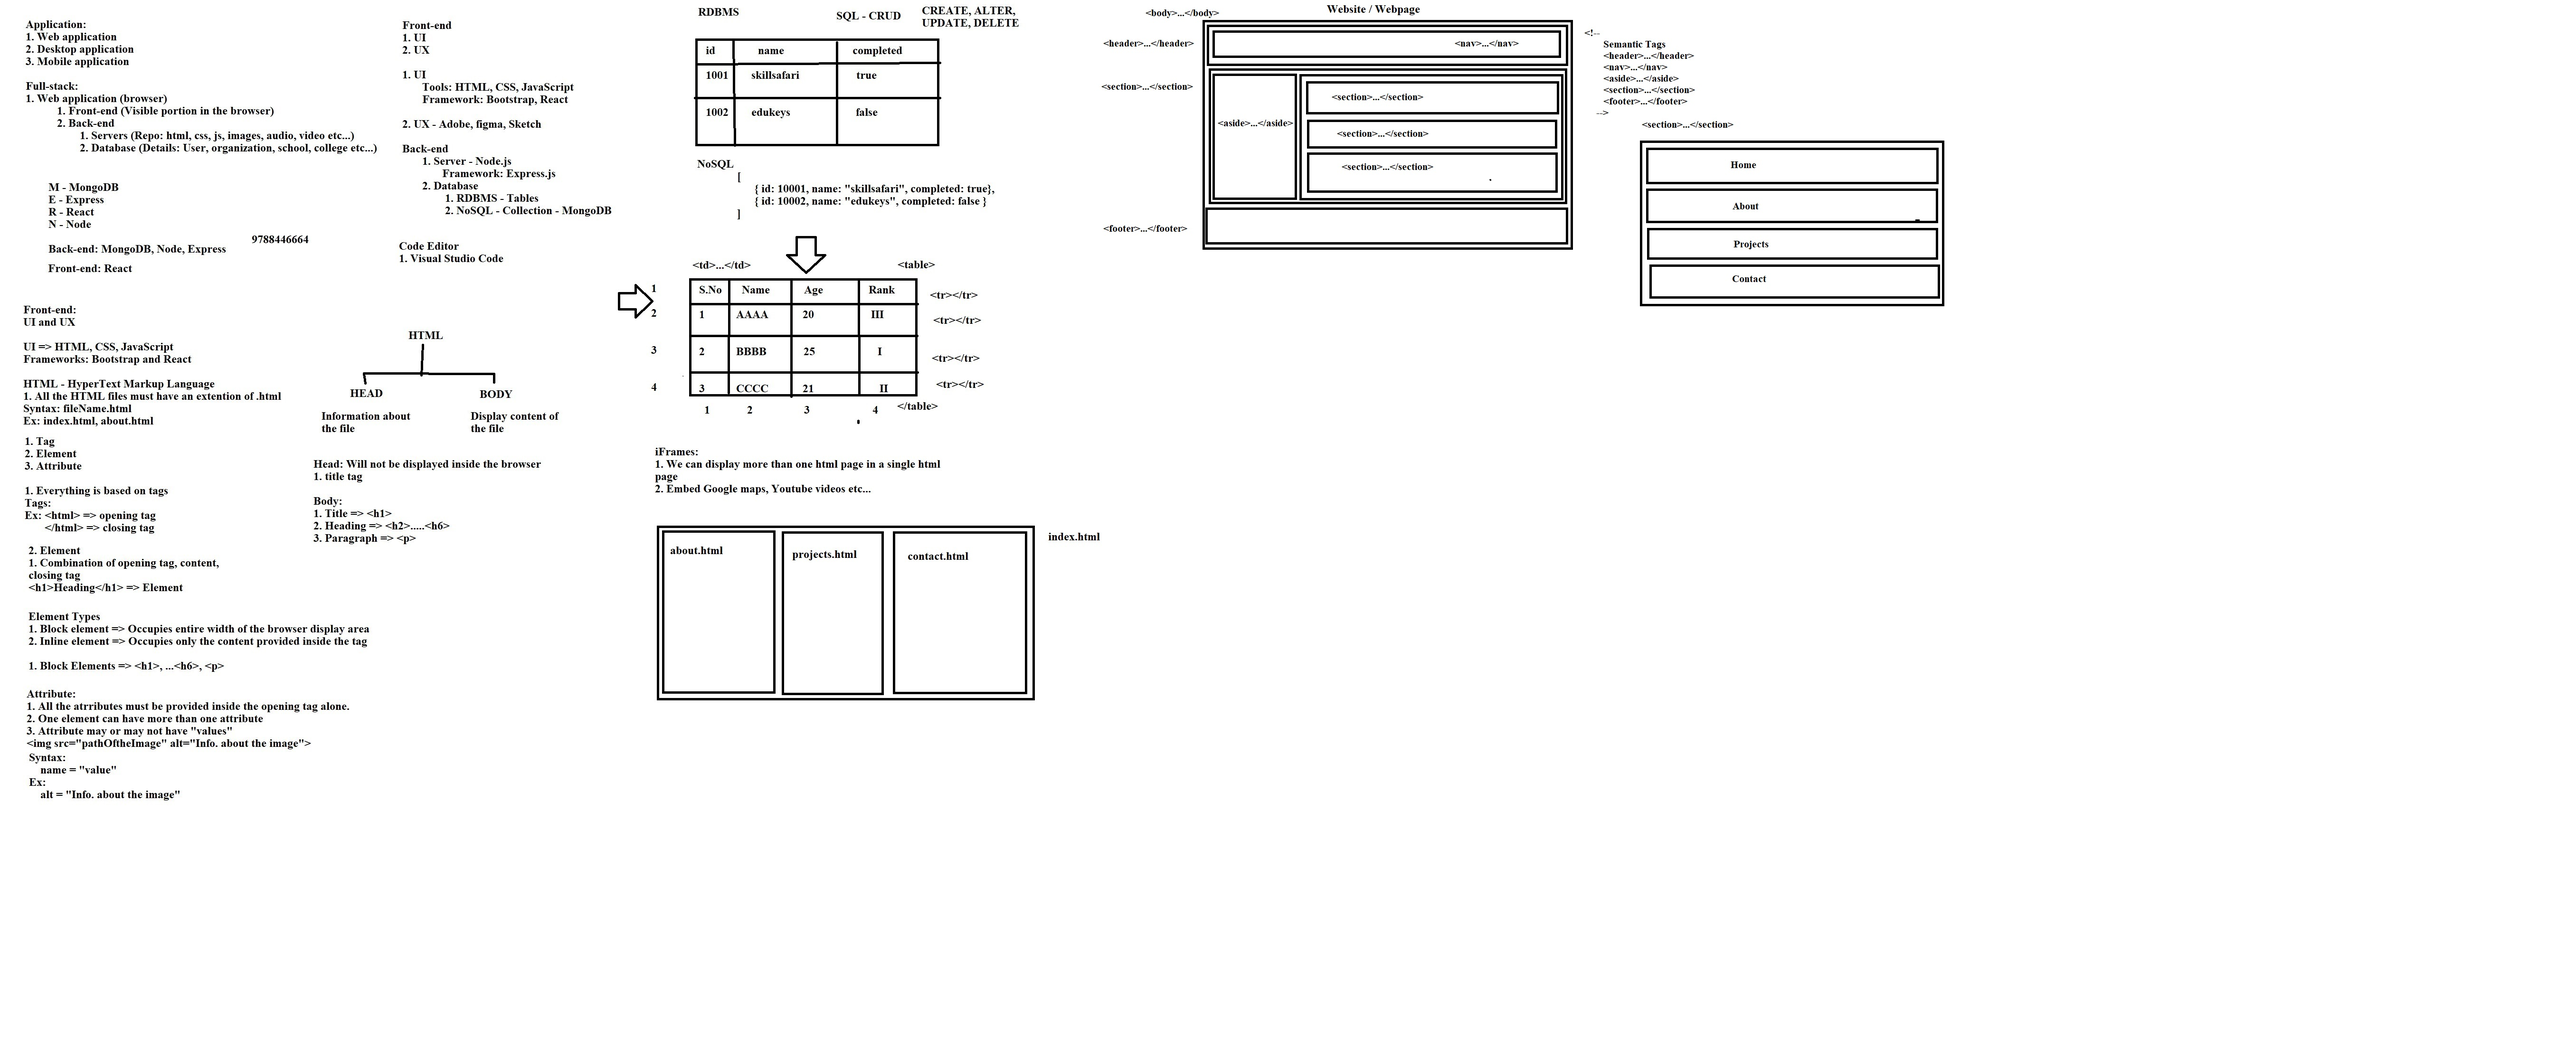
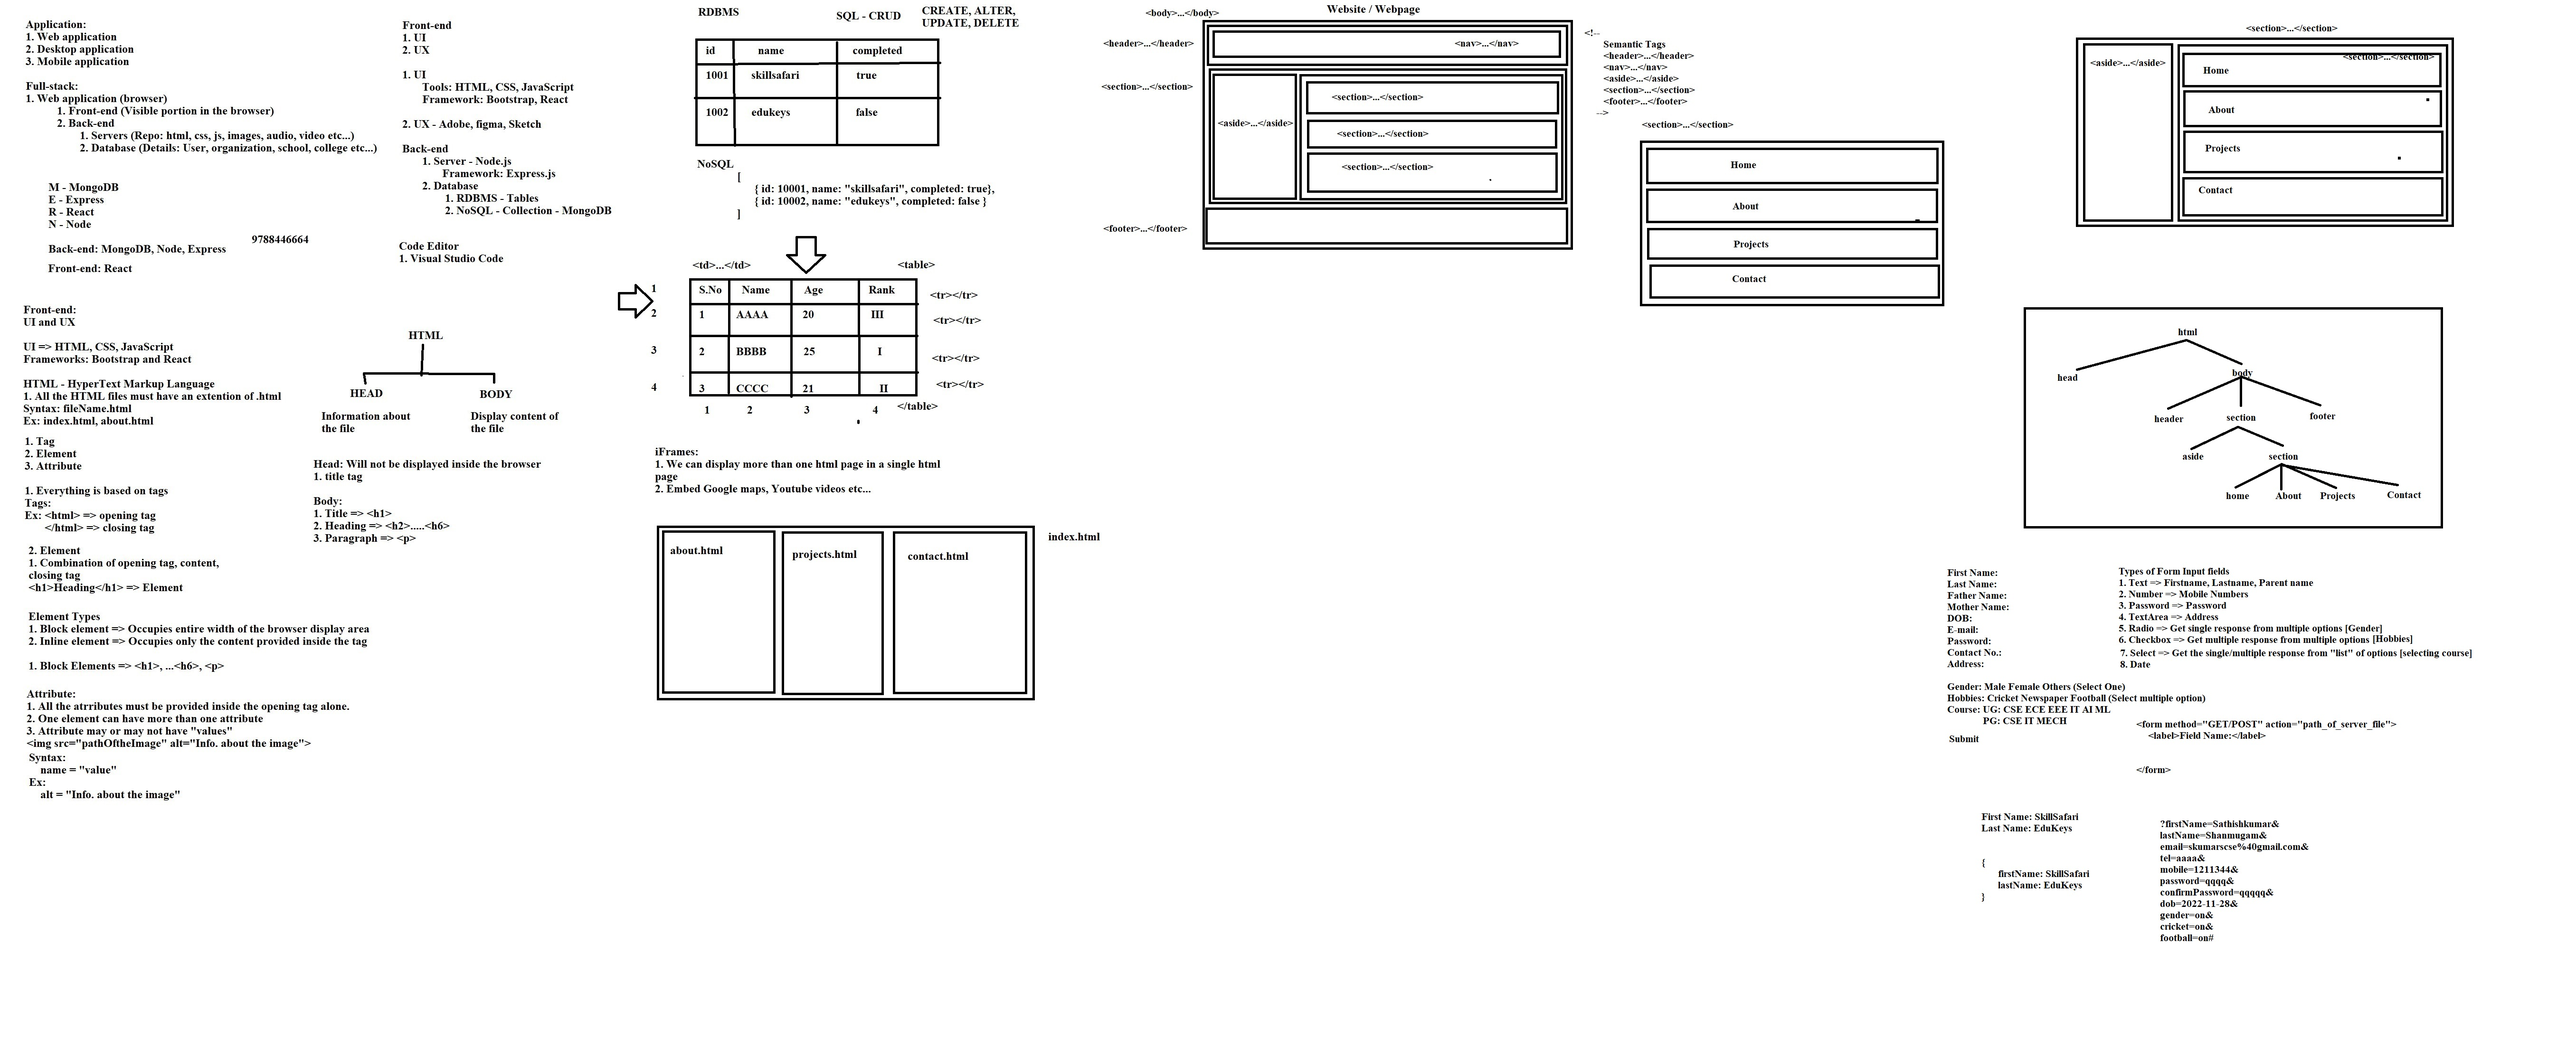
html form - 1

diff --git a/HTML/13-Website-Layout/index.html b/HTML/13-Website-Layout/index.html
@@ -25,46 +25,61 @@
                 <li><a href="#home">Home</a></li>
                 <li><a href="#about">About</a></li>
                 <li><a href="#projects">Projects</a></li>
-                <li><a href="#">Contact</a></li>
+                <li><a href="#contact">Contact</a></li>
             </ul>
         </nav>
     </header>
     <hr>
     <section>
-        <section id="home">
-            <h2>Home Section</h2>
-            <p>Lorem ipsum dolor sit amet consectetur adipisicing elit. Sequi molestias modi debitis laudantium
-                temporibus sint ullam corrupti nobis accusamus rem voluptate sunt dicta nemo nihil illo deleniti officia
-                quae deserunt, dolore iste ab at blanditiis. Doloribus tempora sapiente excepturi placeat sequi quo
-                facere laudantium rem harum numquam sit, accusamus exercitationem?</p>
-            <img src="./assets/images/image-two.jpg" alt="This is image-two" height="250px" width="300px">
-        </section>
-        <hr>
-        <section id="about">
-            <h2>About Section</h2>
-            <p>Lorem ipsum dolor sit amet consectetur adipisicing elit. Sequi molestias modi debitis laudantium
-                temporibus sint ullam corrupti nobis accusamus rem voluptate sunt dicta nemo nihil illo deleniti officia
-                quae deserunt, dolore iste ab at blanditiis. Doloribus tempora sapiente excepturi placeat sequi quo
-                facere laudantium rem harum numquam sit, accusamus exercitationem?</p>
-            <video controls width="450px">
-                <source src="./assets/videos/videoplayback.mp4" type="audio/mp4" />
-            </video>
-        </section>
-        <hr>
-        <section id="projects">
-            <h2>Projects Section</h2>
-            <p>Lorem ipsum dolor sit amet consectetur adipisicing elit. Quisquam, quibusdam illum sed excepturi maxime
-                facere sit? Tempore voluptate eius nemo explicabo pariatur beatae magnam nulla.</p>
+        <aside>
             <ul>
-                <li>To-Do App</li>
-                <li>PostTracker App</li>
-                <li>MERN Full-stack App</li>
+                <li><a href="#home">Home</a></li>
+                <li><a href="#about">About</a></li>
+                <li><a href="#projects">Projects</a></li>
+                <li><a href="#contact">Contact</a></li>
             </ul>
-        </section>
+        </aside>
         <hr>
         <section>
-            <h2>Contact Section</h2>
+            <section id="home">
+                <h2>Home Section</h2>
+                <p>Lorem ipsum dolor sit amet consectetur adipisicing elit. Sequi molestias modi debitis laudantium
+                    temporibus sint ullam corrupti nobis accusamus rem voluptate sunt dicta nemo nihil illo deleniti
+                    officia
+                    quae deserunt, dolore iste ab at blanditiis. Doloribus tempora sapiente excepturi placeat sequi quo
+                    facere laudantium rem harum numquam sit, accusamus exercitationem?</p>
+                <img src="./assets/images/image-two.jpg" alt="This is image-two" height="250px" width="300px">
+            </section>
+            <hr>
+            <section id="about">
+                <h2>About Section</h2>
+                <p>Lorem ipsum dolor sit amet consectetur adipisicing elit. Sequi molestias modi debitis laudantium
+                    temporibus sint ullam corrupti nobis accusamus rem voluptate sunt dicta nemo nihil illo deleniti
+                    officia
+                    quae deserunt, dolore iste ab at blanditiis. Doloribus tempora sapiente excepturi placeat sequi quo
+                    facere laudantium rem harum numquam sit, accusamus exercitationem?</p>
+                <video controls width="450px">
+                    <source src="./assets/videos/videoplayback.mp4" type="audio/mp4" />
+                </video>
+            </section>
+            <hr>
+            <section id="projects">
+                <h2>Projects Section</h2>
+                <p>Lorem ipsum dolor sit amet consectetur adipisicing elit. Quisquam, quibusdam illum sed excepturi
+                    maxime
+                    facere sit? Tempore voluptate eius nemo explicabo pariatur beatae magnam nulla.</p>
+                <ul>
+                    <li>To-Do App</li>
+                    <li>PostTracker App</li>
+                    <li>MERN Full-stack App</li>
+                </ul>
+            </section>
+            <hr>
+            <section id="contact">
+                <h2>Contact Section</h2>
+            </section>
         </section>
+
     </section>
     <hr>
     <footer>

diff --git a/HTML/14-Forms/1-form-intro.html b/HTML/14-Forms/1-form-intro.html
@@ -1,0 +1,67 @@
+<!DOCTYPE html>
+<html lang="en">
+
+<head>
+    <meta charset="UTF-8">
+    <meta http-equiv="X-UA-Compatible" content="IE=edge">
+    <meta name="viewport" content="width=device-width, initial-scale=1.0">
+    <meta name="Description" content="Form - Intro">
+    <title>Form - Intro</title>
+</head>
+
+<body>
+    <h2>Form - Intro</h2>
+    <form action="#" method="get">
+        <fieldset>
+            <legend>Basic Form Details:</legend>
+            <p>
+                <label for="firstName">First Name:</label>
+                <input type="text" name="firstName" id="firstName" placeholder="Enter first name">
+            </p>
+            <p>
+                <label for="lastName">Last Name:</label>
+                <input type="text" name="lastName" id="lastName" placeholder="Enter last name">
+            </p>
+            <p>
+                <label for="email">Email:</label>
+                <input type="email" name="email" id="email" placeholder="Enter email">
+            </p>
+            <p>
+                <label for="tel">Telephone No.:</label>
+                <input type="tel" name="tel" id="tel" placeholder="Enter telephone number">
+            </p>
+            <p>
+                <label for="mobile">Mobile No.:</label>
+                <input type="number" name="mobile" id="mobile" placeholder="Enter mobile number">
+            </p>
+            <p>
+                <label for="password">Password:</label>
+                <input type="password" name="password" id="password" placeholder="Enter password">
+            </p>
+            <p>
+                <label for="confirmPassword">Confirm Password:</label>
+                <input type="password" name="confirmPassword" id="confirmPassword" placeholder="Enter password again">
+            </p>
+            <p>
+                <label for="dob">DOB:</label>
+                <input type="date" name="dob" id="dob">
+            </p>
+            <p>
+                <label for="gender">Gender:</label>
+                <input type="radio" name="gender" id="male"><span>Male</span>
+                <input type="radio" name="gender" id="female"><span>Female</span>
+                <input type="radio" name="gender" id="other"><span>Other</span>
+            </p>
+            <p>
+                <label for="hobbies">Hobbies:</label>
+                <input type="checkbox" name="cricket" id="cricket"><span>Cricket</span>
+                <input type="checkbox" name="football" id="football"><span>Football</span>
+                <input type="checkbox" name="newspaper" id="newspaper"><span>Newspaper</span>
+                <input type="checkbox" name="other" id="other"><span>Other</span>
+            </p>
+        </fieldset>
+        <input type="submit" value="Submit">
+    </form>
+</body>
+
+</html>
